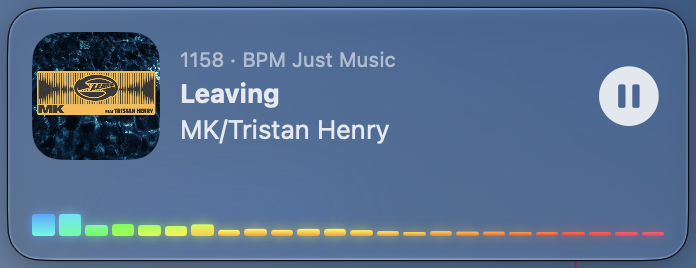
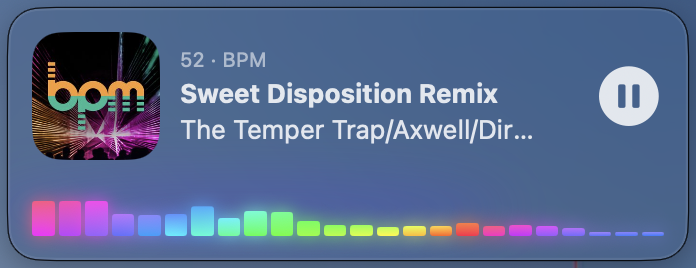
StarPlayrXMac 1.1.3 (build 8): full square tile art for live channels, art in list rows, new screenshots

diff --git a/StarPlayrXMac/Sources/Radio.swift b/StarPlayrXMac/Sources/Radio.swift
@@ -133,15 +133,22 @@ final class Radio: ObservableObject {
         defer { if isLoggedIn { channelsLoaded = true } }
         do {
             try await xtra.signIn(user: user, pass: pass)
-            let xtras = try await xtra.channels().map {
+            let all = try await xtra.channels()
+            let xtras = all.filter(\.isXtra).map {
                 Channel(id: $0.number, name: $0.name, category: $0.genre, imageURL: $0.imageURL, xtraID: $0.id)
             }
+            // Live channels get the same full square tile art as Xtra channels when the newer API has it.
+            var tiles = [String: String]()
+            for ch in all where !ch.isXtra && !ch.imageURL.isEmpty { tiles[ch.number] = ch.imageURL }
             guard isLoggedIn else { return }
-            let live = Set(channels.map(\.id))
-            channels = (channels + xtras.filter { !live.contains($0.id) })
+            let withTiles = channels.map { ch in
+                tiles[ch.id].map { Channel(id: ch.id, name: ch.name, category: ch.category, imageURL: $0, xtraID: ch.xtraID) } ?? ch
+            }
+            let live = Set(withTiles.map(\.id))
+            channels = (withTiles + xtras.filter { !live.contains($0.id) })
                 .sorted { $0.id.localizedStandardCompare($1.id) == .orderedAscending }
-            if current == nil, let last = UserDefaults.standard.string(forKey: "lastChannel") {
-                current = channels.first { $0.id == last }
+            if let id = current?.id ?? UserDefaults.standard.string(forKey: "lastChannel") {
+                current = channels.first { $0.id == id }   // pick up the new art for the current channel too
             }
             await refreshXtraNowPlaying()
         } catch {
@@ -269,7 +276,7 @@ final class Radio: ObservableObject {
             } catch is CancellationError {
             } catch {
                 print("Xtra playback error: \(error.localizedDescription)")
-                if first, current == channel { stop() }
+                if first, current?.id == channel.id { stop() }
             }
         }
     }

diff --git a/StarPlayrXMac/Sources/Xtra.swift b/StarPlayrXMac/Sources/Xtra.swift
@@ -11,6 +11,7 @@ struct XtraChannel {
     let name: String
     let genre: String
     let imageURL: String
+    var isXtra = true       // false: a live channel, listed only for its square tile art
 }
 
 struct XtraTrack {
@@ -142,17 +143,17 @@ actor XtraClient {
 
     private static func channel(from item: [String: Any]) -> XtraChannel? {
         guard let entity = item["entity"] as? [String: Any],
-              entity["type"] as? String == "channel-xtra",
+              let type = entity["type"] as? String, type == "channel-xtra" || type == "channel-linear",
               let id = entity["id"] as? String,
               let name = ((entity["texts"] as? [String: Any])?["title"] as? [String: Any])?["default"] as? String
         else { return nil }
         let deco = item["decorations"] as? [String: Any] ?? [:]
-        if deco["unentitled"] as? Bool == true { return nil }
+        if type == "channel-xtra", deco["unentitled"] as? Bool == true { return nil }
         guard let number = deco["channelNumber"].map({ "\($0)" }) else { return nil }
         let tile = ((entity["images"] as? [String: Any])?["tile"] as? [String: Any])?["aspect_1x1"] as? [String: Any]
         let key = ((tile?["preferred"] ?? tile?["default"]) as? [String: Any])?["url"] as? String
         return XtraChannel(id: id, number: number, name: name, genre: deco["genre"] as? String ?? "",
-                           imageURL: key.map { imageURL(key: $0) } ?? "")
+                           imageURL: key.map { imageURL(key: $0) } ?? "", isXtra: type == "channel-xtra")
     }
 
     private static func imageURL(key: String) -> String {

diff --git a/StarPlayrXMac/Sources/Scripting.swift b/StarPlayrXMac/Sources/Scripting.swift
@@ -244,7 +244,7 @@ final class SPXCommand: NSScriptCommand {
         radio.play(channel)
         let deadline = Date().addingTimeInterval(timeout)
         while !(radio.audioStarted && radio.playingNow != nil && radio.nowPlaying[channel.id] != nil) {
-            guard radio.current == channel else {
+            guard radio.current?.id == channel.id else {
                 throw ScriptFailure("Channel \(channel.id) was replaced by another channel before it started.")
             }
             guard Date() < deadline else {

diff --git a/README.md b/README.md
@@ -58,7 +58,7 @@ StarPlayrX was built for visually impaired listeners, a group of paying subscrib
 
 **Requirements:** macOS 13 Ventura or later, Apple Silicon or Intel, and an active SiriusXM subscription.
 
-**Download:** [StarPlayrX for Mac 1.1.2](https://github.com/AgentiLoop/StarPlayrX/releases/tag/mac-1.1.2) (signed and notarized). All builds are on the [Releases](https://github.com/AgentiLoop/StarPlayrX/releases) page.
+**Download:** [StarPlayrX for Mac 1.1.3](https://github.com/AgentiLoop/StarPlayrX/releases/tag/mac-1.1.3) (signed and notarized). All builds are on the [Releases](https://github.com/AgentiLoop/StarPlayrX/releases) page.
 
 ### 📜 AppleScript
 
